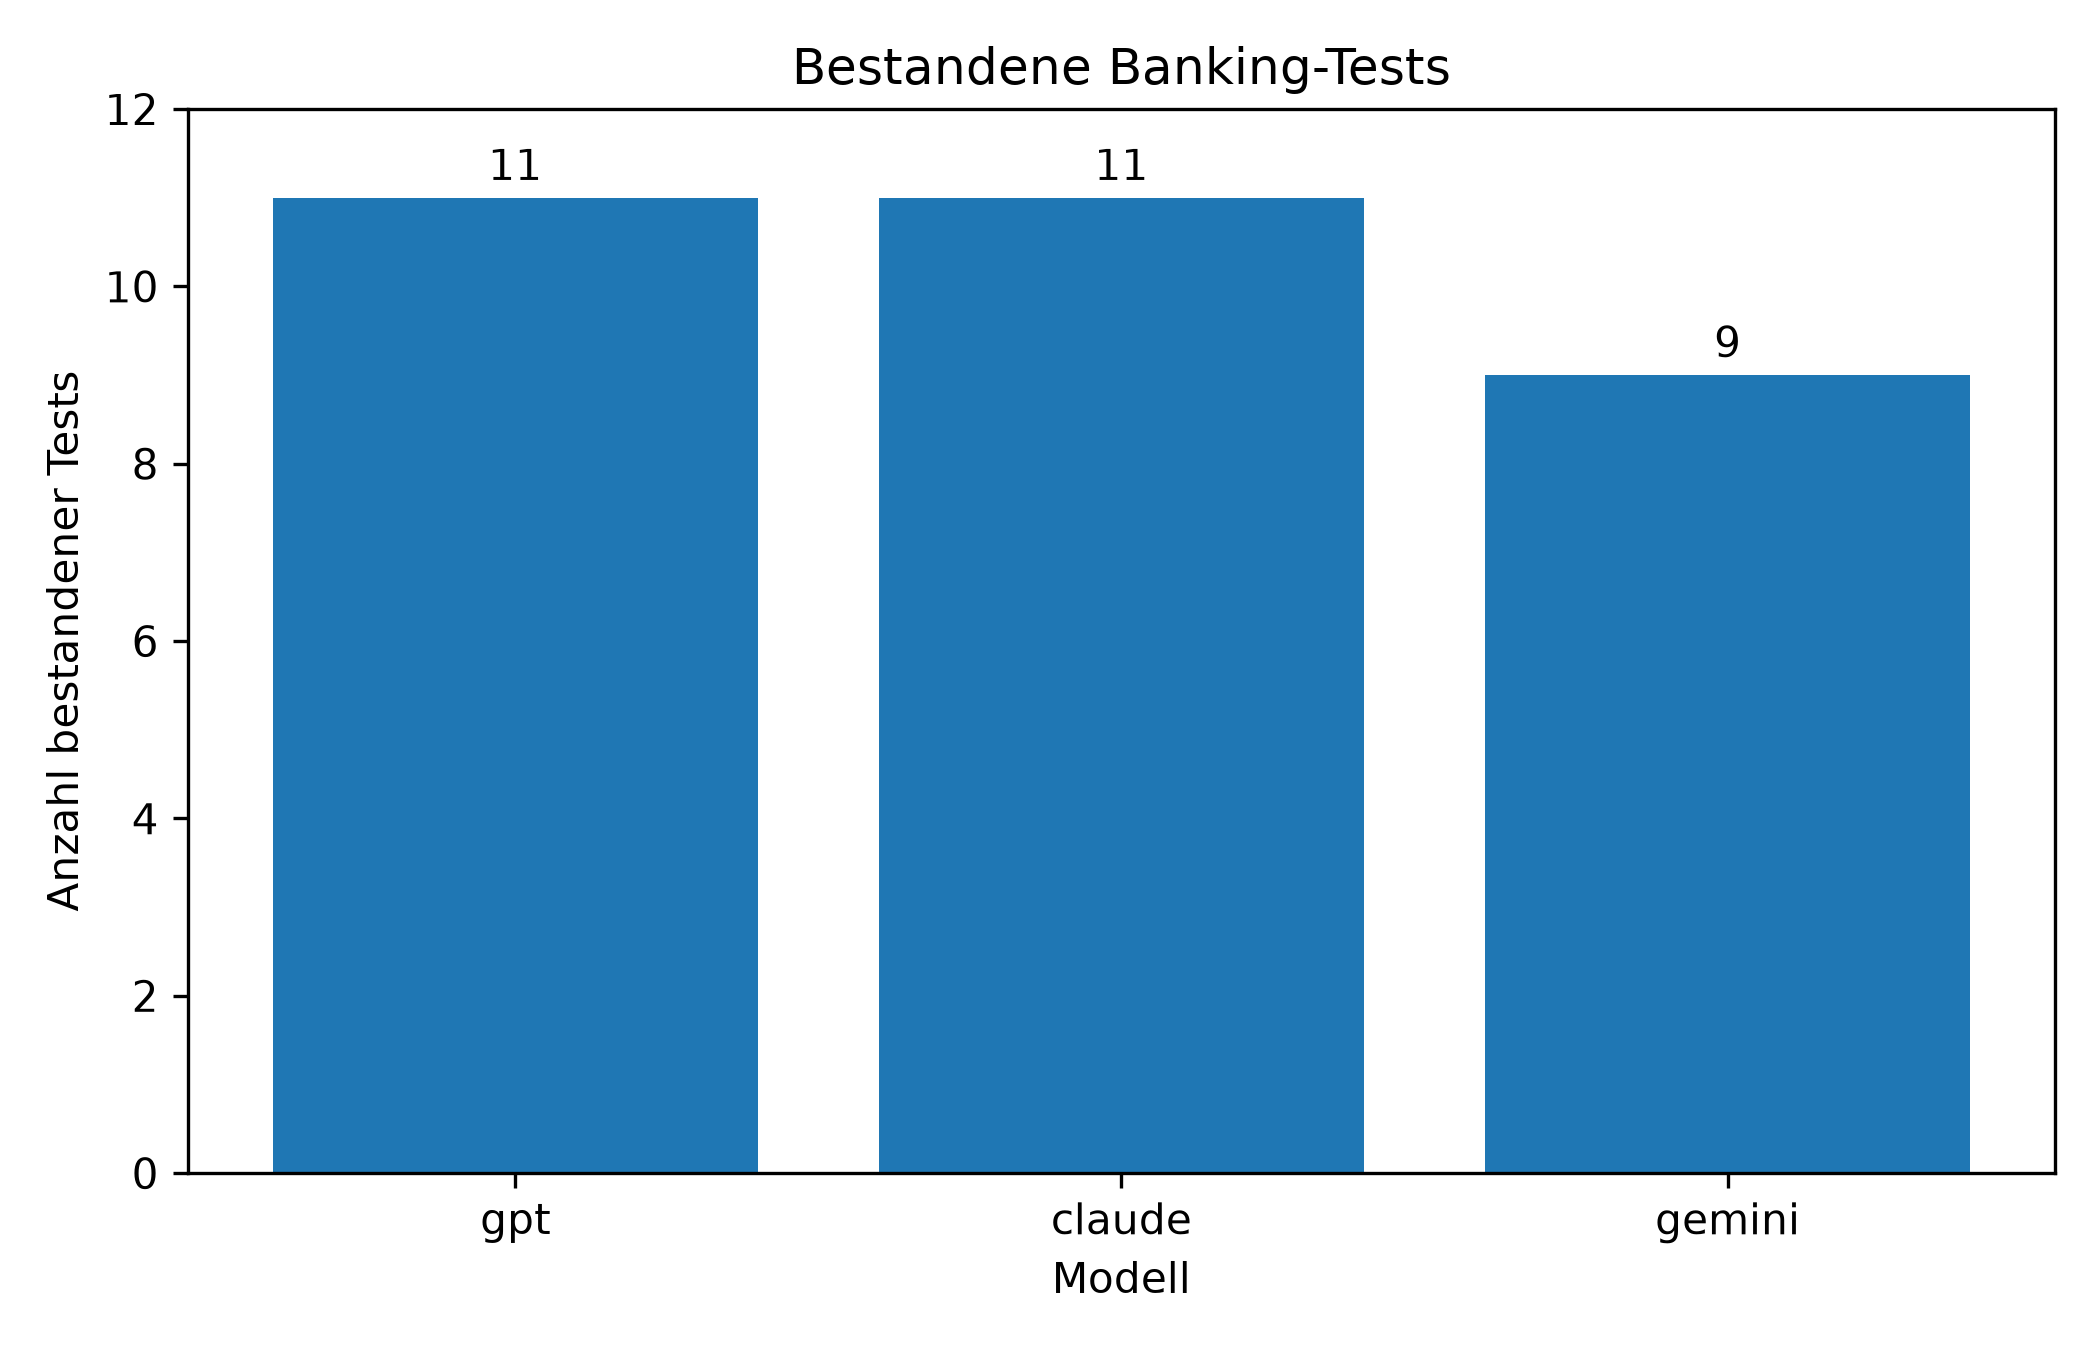
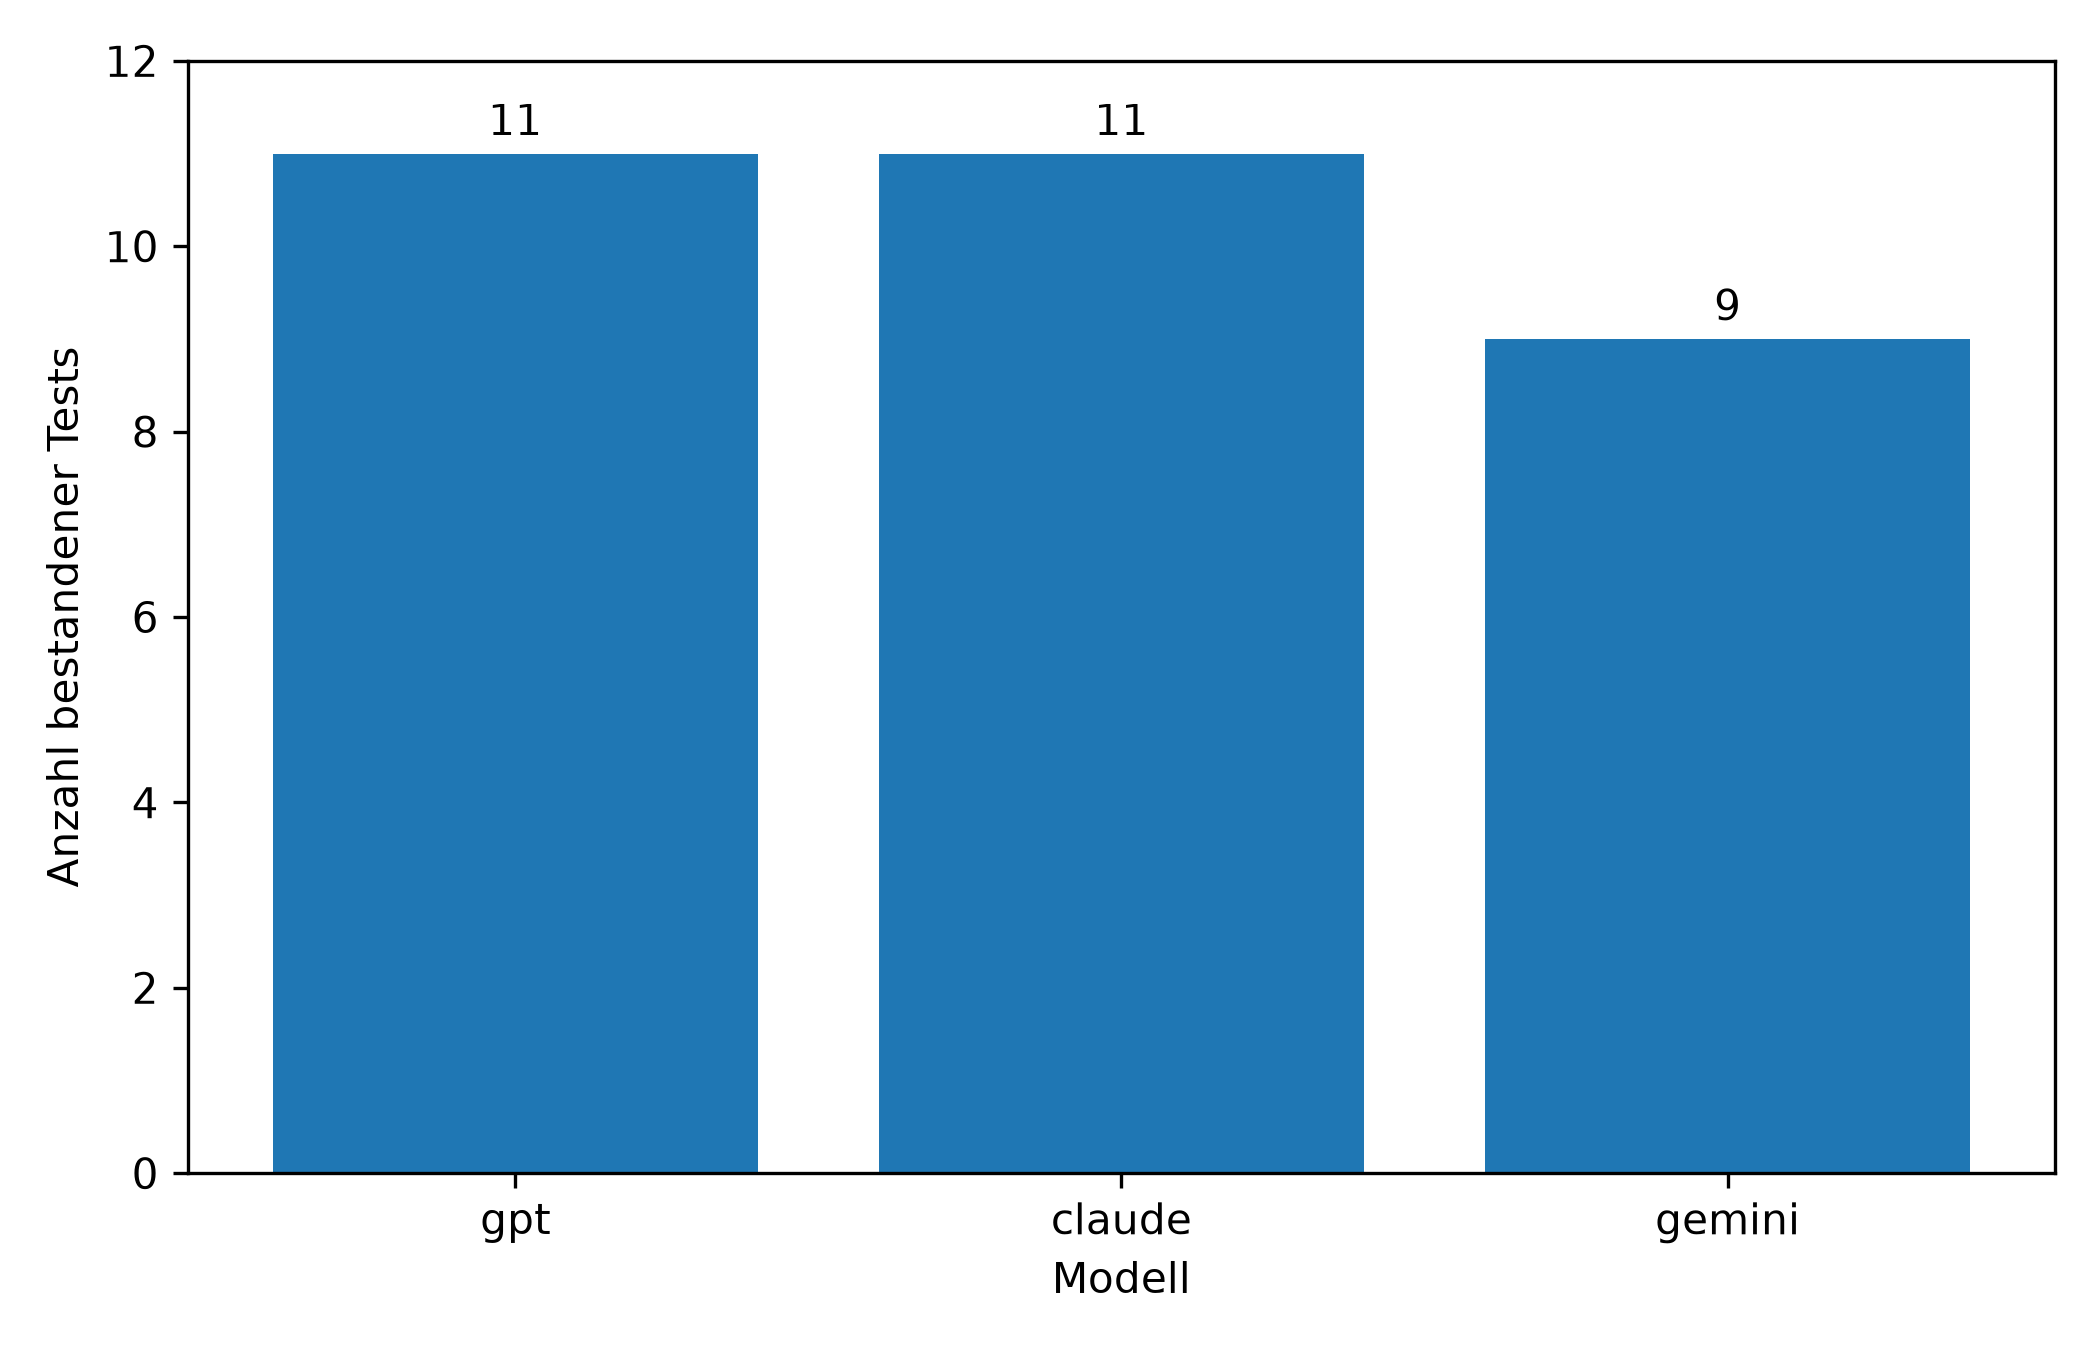
Update README and benchmark documentation

diff --git a/README.md b/README.md
@@ -1,7 +1,8 @@
 # GenAI4Coding
+
 Evaluierung moderner Large Language Models anhand algorithmischer Benchmarks und Webanwendungen.
 
-Dieses Repository enthält sämtliche Benchmarks, Analyse-Skripte, generierten Lösungen und Auswertungen der Bachelorarbeit „GenAI4Coding“.
+Dieses Repository enthält sämtliche Benchmarks, Analyse-Skripte, generierten Lösungen sowie Auswertungen der Bachelorarbeit **„GenAI4Coding“**. Ziel der Arbeit ist die systematische Evaluierung moderner Large Language Models (LLMs) hinsichtlich ihrer Fähigkeiten zur automatisierten Codegenerierung anhand algorithmischer Programmieraufgaben sowie der Entwicklung einer vollständigen Webanwendung.
 
 ## Ziel
 
@@ -11,26 +12,33 @@ Neuevaluierung der Codegenerierungsfähigkeiten moderner generativer KI-Systeme 
 
 ## Teil 1: Advent of Code Benchmark
 
-Im ersten Teil der Arbeit werden generative KI-Systeme anhand von Aufgaben aus **Advent of Code 2025 (Tage 1–12)** evaluiert. 
+Im ersten Teil der Arbeit werden generative KI-Systeme anhand von Aufgaben aus **Advent of Code 2025 (Tage 1–12)** evaluiert.
 
 ### Vorgehen
 
-* Für jeden Tag werden **Part 1 und Part 2** getrennt gelöst
-* Einheitlicher Prompt für alle Modelle
-* Einheitliche Programmiersprache (Python)
-* Automatische Ausführung und Bewertung mittels Benchmark-Skript
+* Für jeden Tag werden **Part 1 und Part 2** getrennt gelöst.
+* Einheitlicher Prompt für alle Modelle.
+* Einheitliche Programmiersprache (Python).
+* Automatische Ausführung und Bewertung mittels Benchmark-Skript.
+* Bei funktional falschen Ergebnissen erfolgt ein einmaliger zweiter Versuch mit unverändertem Prompt.
 
 ### Modelle
 
-* GPT-5.3
-* Claude Sonnet
-* Gemini 3.1 Pro
+Die Evaluation wurde über die offiziellen Weboberflächen der jeweiligen Anbieter durchgeführt.
+
+* OpenAI – GPT-5.3
+* Anthropic – Claude Sonnet
+* Google – Gemini 3.1 Pro
+
+Für alle Modelle wurden identische Prompts und identische Eingabedaten verwendet. Da die Weboberflächen keine Informationen über Modell-Snapshots oder Build-Versionen bereitstellen, beziehen sich die Ergebnisse auf die zum Zeitpunkt der Evaluation verfügbaren Modellversionen.
 
 ### Bewertungskriterien
 
 * Korrektheit der Lösung
-* Auftretende Fehlertypen (z. B. Runtime Errors, falsche Ergebnisse, fehlende Abhängigkeiten)
+* Auftretende Fehlertypen (z. B. Timeouts, Runtime Errors, falsche Ergebnisse)
 * Stabilität und Konsistenz
+* Erfolgsrate
+* Vergleich zwischen Part 1 und Part 2
 
 ---
 
@@ -55,17 +63,26 @@ Entwicklung einer prototypischen Internet-Banking-Webanwendung mit:
 
 ### Evaluation
 
-Die generierten Anwendungen werden automatisiert getestet anhand von:
+Die generierten Anwendungen werden mithilfe eines automatisierten Benchmark-Frameworks evaluiert. Da die Modelle unterschiedliche Softwarearchitekturen erzeugen, erfolgt die technische Kommunikation über modellspezifische Adapter. Die fachlichen Testfälle und Bewertungskriterien bleiben dabei für alle Modelle identisch.
 
-* Funktionale Vollständigkeit (Register, Login, Dashboard, Transfer)
-* Korrektheit der implementierten Funktionen
-* Sicherheitsaspekte (Authentifizierung, Eingabevalidierung, Zugriffsschutz)
-* Stabilität der Anwendung (Startfähigkeit, Fehlerverhalten)
+Der funktionale Benchmark umfasst unter anderem folgende Testfälle:
 
-Zusätzlich erfolgt eine strukturelle Analyse:
+* Erreichbarkeit der Anwendung
+* Registrierung neuer Benutzer
+* Login
+* Zugriff auf geschützte Bereiche
+* Überweisungsfunktion
+* Login mit ungültigen Zugangsdaten
+* Überweisung ohne Authentifizierung
+* Ablehnung negativer Überweisungsbeträge
+* Schutz gegen SQL-Injection
+
+Zusätzlich erfolgt eine strukturelle Analyse der generierten Anwendungen hinsichtlich:
 
 * Modularität und Projektstruktur
 * Vorhandensein relevanter Komponenten (z. B. Datenbank, Routen, Templates)
+* Qualität der Softwarestruktur
+* Manueller Nachbearbeitungsaufwand
 
 ---
 
@@ -73,9 +90,9 @@ Zusätzlich erfolgt eine strukturelle Analyse:
 
 ```text
 aoc/
-├── tasks/          # Input, Expected Outputs, Prompts
+├── tasks/          # Input-Dateien, erwartete Ergebnisse und Prompts
 ├── solutions/      # Generierter Code pro Modell
-├── results/        # Benchmark-Ergebnisse
+├── results/        # Benchmark-Ergebnisse und Analysen
 └── run_benchmark.py
 
 banking_app/
@@ -83,8 +100,8 @@ banking_app/
 ├── claude/
 ├── gemini/
 ├── prompt/
-├── tests/          # Automatisierte Funktionstests
-└── results/        # Gesamt-Ergebnisse (CSV)
+├── tests/          # Automatisierter Banking-Benchmark und Strukturanalyse
+└── results/        # CSV-Ergebnisse und Analyse-Skripte
 
 README.md
 ```
@@ -94,10 +111,15 @@ README.md
 ## Methodik
 
 * Einheitliche Prompts für alle Modelle
+* Identische Eingabedaten für sämtliche Experimente
+* Durchführung über die offiziellen Weboberflächen der Anbieter
 * Reproduzierbare Testumgebung
 * Automatisierte Benchmark-Pipeline
+* Einheitlicher Testkatalog mit elf funktionalen und sicherheitsbezogenen Testfällen
+* Modellspezifische Adapter für unterschiedliche technische Architekturen bei identischen fachlichen Bewertungskriterien
 * Vergleich zwischen mehreren KI-Systemen
-* Kombination aus funktionalen Tests und struktureller Analyse
+* Kombination aus funktionalen Tests, Sicherheitsanalyse und struktureller Bewertung
+* Keine modellabhängigen Prompt-Anpassungen oder Folgeprompts
 
 ---
 
@@ -112,8 +134,15 @@ python3 run_benchmark.py
 
 ### Banking App Benchmark
 
+Funktionaler Benchmark:
+
 ```bash
 python3 banking_app/tests/benchmark_banking.py <model>
+```
+
+Strukturanalyse:
+
+```bash
 python3 banking_app/tests/check_structure.py <model>
 ```
 
@@ -127,21 +156,39 @@ python3 banking_app/tests/benchmark_banking.py gpt
 
 ## Ergebnisse
 
+Die Benchmark-Pipeline protokolliert unter anderem:
+
+* HTTP-Statuscodes
+* Weiterleitungen
+* Testergebnisse
+* Fehlermeldungen
+* Sicherheitsprüfungen
+* Ergebnisse der Strukturanalyse
+
 Die Ergebnisse werden automatisch gespeichert in:
 
 ```text
-banking_app/results/banking_structure_results.csv
 banking_app/results/banking_benchmark_results.csv
+banking_app/results/banking_structure_results.csv
 ```
+
 ### Ergebnisse automatisch analysieren
 
 ```bash
 python3 banking_app/results/analyze_banking_results.py
 ```
 
+Die Analyse erzeugt aggregierte Auswertungen der funktionalen Tests sowie der strukturellen Bewertung und dient als Grundlage für Tabellen, Diagramme und statistische Auswertungen der Bachelorarbeit.
+
+---
+
 ## Hinweis
 
-Dieses Repository wurde im Rahmen einer Bachelorarbeit an der Paris-Lodron-Universität Salzburg erstellt.
+Dieses Repository wurde im Rahmen einer Bachelorarbeit an der **Paris-Lodron-Universität Salzburg** erstellt.
+
+Die Experimente wurden unter reproduzierbaren Bedingungen durchgeführt. Alle Modelle erhielten identische Prompts und identische Eingabedaten. Die Evaluation erfolgte über die offiziellen Weboberflächen von OpenAI, Anthropic und Google. Da diese keine festen Modell-Snapshots oder konfigurierbaren Modellparameter (z. B. Temperatur oder Top-p) bereitstellen, beziehen sich die Ergebnisse auf die zum Zeitpunkt der Experimente verfügbaren Modellversionen.
+
+---
 
 ## License
 